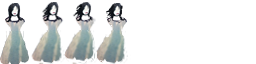
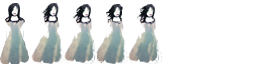
graphical and animation improvements

diff --git a/js/ada.js b/js/ada.js
@@ -51,8 +51,8 @@ var mainState = {
 	    fill: '#999'
 	});
     game.load.image('ground', 'assets/platform.png');
-	game.load.image('spike', 'assets/isotropic-radiator.png');
-    game.load.image('background', 'assets/background.jpg');
+	game.load.spritesheet('spike', 'assets/isotropic-radiator.png',32,32,12);
+    game.load.image('background', 'assets/background.png');
 	//game.load.image('ada', 'assets/ada.png');
 	game.load.spritesheet('ada','assets/ada-animated.png',32,64,8);
 	game.load.image('punchcard', 'assets/punchcard.png');
@@ -87,7 +87,7 @@ var mainState = {
 
 	create: function() {		
     	game.physics.startSystem(Phaser.Physics.ARCADE);
-		//game.stage.backgroundColor = '#bfbeb2';
+		game.stage.backgroundColor = '#c8e9fc';
 		game.add.sprite(0, 0, 'background');
     	timer = game.time.create(false);
 		//  Set it to wait 5 seconds to trigger an event
@@ -180,7 +180,7 @@ var mainState = {
 		} else if (((cursors.up.isDown)||(cursors.down.isDown))&&(player.body.blocked.up)&&player.body.gravity.y<0) {//for jumping when Ada's gravity is reversed
 			player.body.velocity.y = -jumpVelocity;
 		} else if (this.game.input.keyboard.isDown(Phaser.Keyboard.R)) {
-			alert("r or R");
+			loadLevel(level);
 		}
 		
 		if (timer.running){
@@ -510,6 +510,8 @@ function loadLevel(level) {
 	map.createFromObjects('entities', 7, 'spike', 0, true, false, spikes);
 	spikes.forEach(function(s) {
 		s.body.immovable = true;
+		s.animations.add('flame');		
+    	s.animations.play('flame', 15, true);
 	}, this);
 	switches=game.add.group();
 	switches.enableBody=true;
@@ -528,7 +530,7 @@ function loadLevel(level) {
 	player.body.collideWorldBounds = true;
 	player.body.maxVelocity.y = 500;//keep her from falling through tiles
 	player.anchor.setTo(.5, .5); //so it flips around its middle
- 	player.animations.add('forward', [1,2,3], 10, true);
+ 	player.animations.add('forward', [1,2,3,4], 10, true);
 	game.camera.follow(player);
 	//player.bringToTop();//sprite was hiding behind new tilemaps being created each level.
 	//player.position.setTo(32,200);
